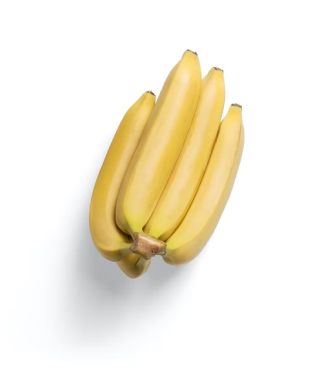
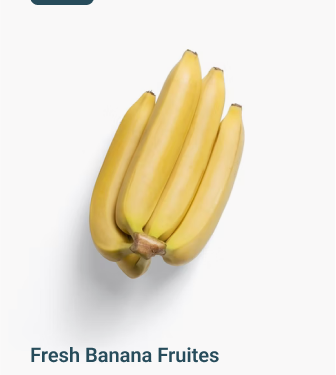
add item

Changed region(s): [[0.0893, 0.9093, 0.6548, 0.968], [0.0893, 0.0, 0.2679, 0.0293]]

diff --git a/markup/components/products/products.scss b/markup/components/products/products.scss
@@ -1,5 +1,21 @@
 .products {
+    padding-top: 176px;
+    padding-bottom: 200px;
+    &__title {
+        color: $green;
+        font-family: 'Yellowtail';
+        font-size: 36px;
+        text-align: center;
+    }
+    &__description {
+        margin-top: 8px;
+        color: $dark;
+        text-align: center;
+        font-size: 50px;
+        font-weight: 800;
+    }
     &__list {
+        margin-top: 40px;
         display: flex;
         align-items: flex-start;
         flex-wrap: wrap;
@@ -8,6 +24,15 @@
 }
 
 .products-item {
+    background-color: #f9f8f8;
+    border-radius: 30px;
+    &__category {
+        border-radius: 8px;
+        background-color: $dark;
+        padding: 5px 12px;
+        color: #fff;
+        display: inline;
+    }
     &__img {
         display: flex;
         justify-content: center;
@@ -21,6 +46,19 @@
     }
     &__footer {
         padding: 17px 30px;
+    }
+    &__name {
+        color: $dark;
+        font-size: 20px;
+        font-weight: 600;
+    }
+    &__name::after {
+        border-bottom: 1px solid $grey;
+    }
+    &__double {
+        margin-top: 6px;
+        display: flex;
+        gap: 81px;
     }
     &__header {
         padding: 30px;

diff --git a/markup/components/products/products-item-2.html b/markup/components/products/products-item-2.html
@@ -1,17 +1,17 @@
 <li class="products-item">
     <a href="" class="products-item__card link">
         <div class="products-item__header">
-            <div class="products-item__category">Vegetable</div>
+            <div class="products-item__category">Fresh</div>
         </div>
         <div class="products-item__img">
-            <img src="../../static/img/content/broccoli.jpg" alt="" />
+            <img src="../../static/img/content/banana.jpg" alt="" />
         </div>
         <div class="products-item__footer">
-            <div class="products-item__name">Calabrese Broccoli</div>
+            <div class="products-item__name">Fresh Banana Fruites</div>
             <div class="products-item__double">
                 <div class="products-item__price">
                     <div class="products-item__sale">$20.00</div>
-                    <div class="products-item__current">$13.00</div>
+                    <div class="products-item__current">$14.00</div>
                 </div>
                 <ul class="products-item__stars">
                     <li class="products-item__star">{{Icon iconName='star' }}</li>

diff --git a/markup/components/products/products-item-3.html b/markup/components/products/products-item-3.html
@@ -1,17 +1,17 @@
 <li class="products-item">
     <a href="" class="products-item__card link">
         <div class="products-item__header">
-            <div class="products-item__category">Vegetable</div>
+            <div class="products-item__category">Millets</div>
         </div>
         <div class="products-item__img">
-            <img src="../../static/img/content/broccoli.jpg" alt="" />
+            <img src="../../static/img/content/nuts.jpg" alt="" />
         </div>
         <div class="products-item__footer">
-            <div class="products-item__name">Calabrese Broccoli</div>
+            <div class="products-item__name">White Nuts</div>
             <div class="products-item__double">
                 <div class="products-item__price">
                     <div class="products-item__sale">$20.00</div>
-                    <div class="products-item__current">$13.00</div>
+                    <div class="products-item__current">$15.00</div>
                 </div>
                 <ul class="products-item__stars">
                     <li class="products-item__star">{{Icon iconName='star' }}</li>

diff --git a/markup/components/products/products-item-4.html b/markup/components/products/products-item-4.html
@@ -4,14 +4,14 @@
             <div class="products-item__category">Vegetable</div>
         </div>
         <div class="products-item__img">
-            <img src="../../static/img/content/broccoli.jpg" alt="" />
+            <img src="../../static/img/content/tomato.jpg" alt="" />
         </div>
         <div class="products-item__footer">
-            <div class="products-item__name">Calabrese Broccoli</div>
+            <div class="products-item__name">Vegan Red Tomato</div>
             <div class="products-item__double">
                 <div class="products-item__price">
                     <div class="products-item__sale">$20.00</div>
-                    <div class="products-item__current">$13.00</div>
+                    <div class="products-item__current">$17.00</div>
                 </div>
                 <ul class="products-item__stars">
                     <li class="products-item__star">{{Icon iconName='star' }}</li>

diff --git a/markup/components/products/products.html b/markup/components/products/products.html
@@ -3,9 +3,8 @@
         <div class="products__title">Categories</div>
         <div class="products__description">Our Products</div>
         <ul class="products__list">
-            {{> products/products-item-1}} {{> products/products-item-1}} {{> products/products-item-1}} {{>
-            products/products-item-1}} {{> products/products-item-1}} {{> products/products-item-1}} {{>
-            products/products-item-1}} {{> products/products-item-1}}
+            {{> products/products-item-1}} {{> products/products-item-2}} {{> products/products-item-3}} {{>
+            products/products-item-4}}
         </ul>
     </div>
 </div>
